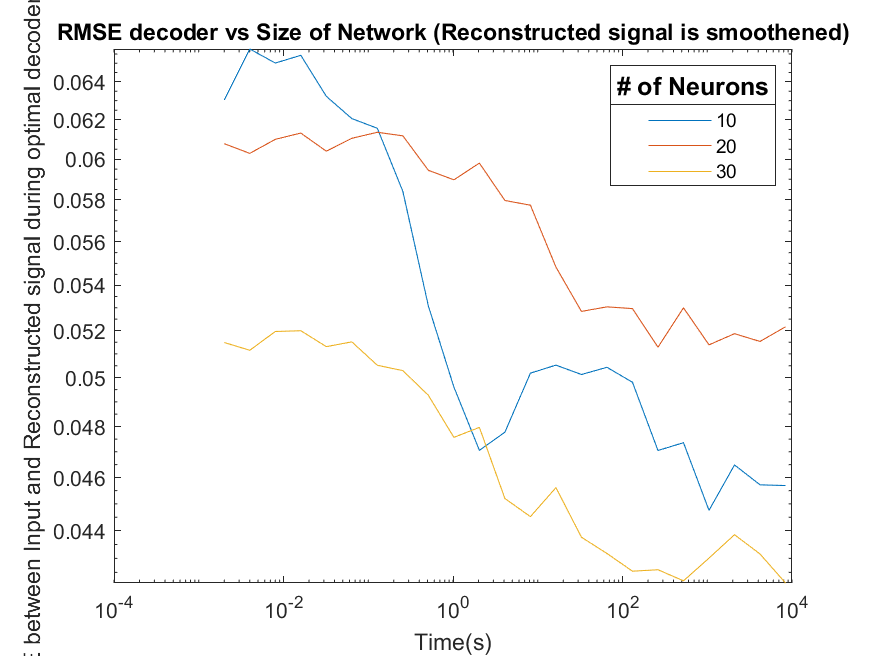
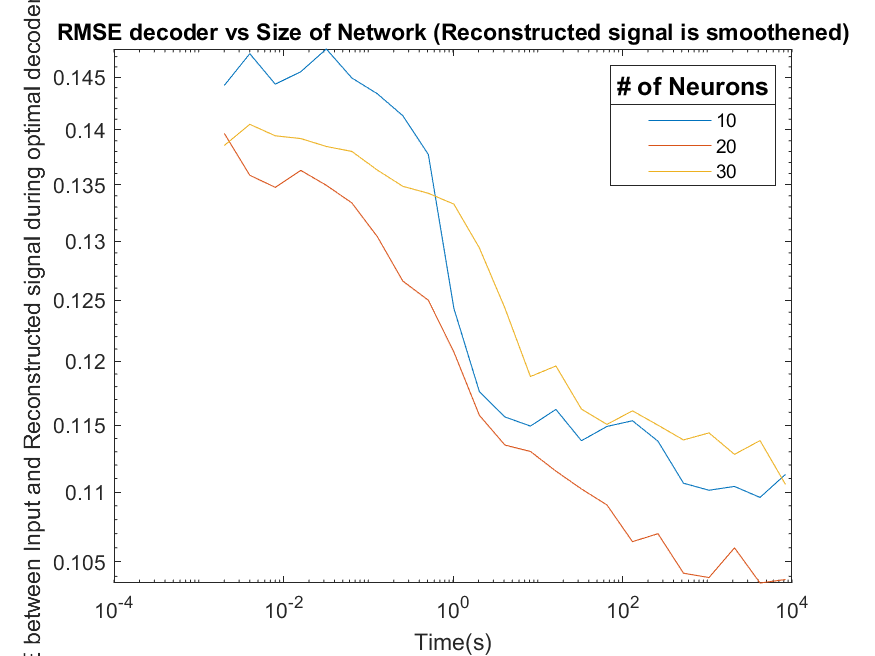
Original Dataset

diff --git a/optimalEncoding_matlab/original/Learning.m b/optimalEncoding_matlab/original/Learning.m
@@ -35,7 +35,7 @@ function [Fs,Cs,F,C,Decs, ErrorC, RMSE, MeanPrate]=Learning(dt,lambda,epsr,epsf,
 %%%%%%%%%%%%%%%%%%%%%%%%%%%%%%%%%%%%%%%%%%%%%%%%%%%%%%%%%%%%%%%%%%%%%%%%%%%%%%%
 
 
-%%
+%% Learning 
 %%%%%%%%%%%%%%%%%%%%%%%%%%%%%%%%%%%%%%%%%%%%%%%%%%%%%%%%%%%%%%%%%%%%%%%%%%%%%%%%%%
 %%%%%%%%%%%%%%%%%%%%%%   Learning the optinal connectivities  %%%%%%%%%%%%%%%%%%%%
 %%%%%%%%%%%%%%%%%%%%%%%%%%%%%%%%%%%%%%%%%%%%%%%%%%%%%%%%%%%%%%%%%%%%%%%%%%%%%%%%%%
@@ -112,9 +112,9 @@ end
 
 
 fprintf('Learning  completed\n')
-imagesc(spikeVector);
-hold off
-imagesc(spikeAnalog);
+%imagesc(spikeVector);
+%hold off
+%imagesc(spikeAnalog);
 %%
 %%%%%%%%%%%%%%%%%%%%%%%%%%%%%%%%%%%%%%%%%%%%%%%%%%%%%%%%%%%%%%%%%%%%%%%%%%%%%%%%%%
 %%%%%%%%%%%%%%%%%%%%%%   Computing Optimal Decoders  %%%%%%%%%%%%%%%%%%%%%%%%%%%%%
@@ -149,6 +149,8 @@ for t=2:TimeL
     
 end
 
+spikeOutputs = zeros(T,Nneuron,TimeL);
+spikeAnalog = zeros(T,Nneuron,TimeL);
 for i=1:T
     [rOL, O, ~] = runnet(dt, lambda, squeeze(Fs(i,:,:)) ,InputL, squeeze(Cs(i,:,:)),Nneuron,TimeL, Thresh); % running the network with the previously generated input for the i-th instanc eof the network
     spikeOutputs(i,:,:) = O;
@@ -164,7 +166,41 @@ for i = 1:T
     [RecAligned(i,:,:), InputAligned(i,:,:), RMSE(:,i)] = SmoothNormAlign(reconstruction, InputL, Nx, TimeL);
 end
 
+figure; 
+subplot(3,1,1);plot(InputL(1,:));hold on; plot(InputL(2,:));
+subplot(3,1,2);imagesc(O);
+subplot(3,1,3); plot(reconstruction(1,:)); hold on; plot(reconstruction(2,:));
+%% Determining optimal weights and optimal decoder, to be used for inference
+% Lowest RMSE = 0, highest RMSE = 1;
+NormalizedRMSE = (RMSE - min(RMSE))/(max(RMSE) - min(RMSE));
+TotalSpikes = sum(sum(spikeOutputs,3),2);
+NormalizedSpiking = (TotalSpikes - min(TotalSpikes))/(max(TotalSpikes)-min(TotalSpikes));
+OptimalCriteria = NormalizedRMSE + NormalizedSpiking';
+[m, OptimalIdx] = min(OptimalCriteria);
+Foptimal = Fs(OptimalIdx,:, :);
+Coptimal = Cs(OptimalIdx,:, :);
+%% Plotting Input vs Reconstructed signal from the decoder, from the most sparse point
+OptimalRecAligned = squeeze(RecAligned(OptimalIdx,:,:));
+OptimalInputAligned = squeeze(InputAligned(OptimalIdx,:,:));
+OptimalRMSE = RMSE(:,OptimalIdx);
 
+time = 2000*dt:dt:3000*dt;
+figure()
+plot(time, OptimalInputAligned(1,2000:3000));
+hold on
+plot(time, OptimalRecAligned(1,2000:3000));
+hold on
+plot(time, OptimalInputAligned(2,2000:3000));
+plot(time, OptimalRecAligned(2,2000:3000));
+lgd = legend('Input signal: Sin','Reconstructed signal: Sin', 'Input signal: Cos','Reconstructed signal: Cos');
+xlabel("Time(s)")
+ylabel("Amplitude");
+GraphTitle = "Signal reconstruction from sparse optimal linear decoder, # Neurons = " + num2str(Nneuron); 
+title(GraphTitle);
+annotation('textbox', [0.75, 0.1, 0.1, 0.1], 'String', "RMSE = " + OptimalRMSE);
+GraphName = "GaussianDist_InputSignalvsReconstruct_Decoder_" + num2str(Nneuron) + ".png";
+set(gcf, 'Position', get(0, 'Screensize'));
+saveas(gcf, GraphName);
 %%
 %%%%%%%%%%%%%%%%%%%%%%%%%%%%%%%%%%%%%%%%%%%%%%%%%%%%%%%%%%%%%%%%%%%%%%%%%%%%%%%%%
 %%%%%%%%%%%  Computing Decoding Error, rates through Learning %%%%%%%%%%%%%%%%%%%
@@ -189,11 +225,12 @@ MeanPrate=zeros(1,T);%array of the mean rates over learning
 Error=zeros(1,T);%array of the decoding error over learning
 MembraneVar=zeros(1,T);%mean membrane potential variance over learning
 xT=zeros(Nx,TimeT);%target ouput
+OTAll = zeros(T,Nneuron,TimeT); %All spikes by all instances of the network in time
 
 
 
 Trials=10; %number of trials
-
+OTAll = zeros(T,Nneuron,TimeT);
 for r=1:Trials %for each trial
     InputT=A*(mvnrnd(zeros(1,Nx),eye(Nx),TimeT))'; % we genrate a new input
     
@@ -207,7 +244,7 @@ for r=1:Trials %for each trial
     
     for i=1:T %for each instance of the network
         [rOT, OT, VT] = runnet(dt, lambda, squeeze(Fs(i,:,:)) ,InputT, squeeze(Cs(i,:,:)),Nneuron,TimeT, Thresh);%we run the network with current input InputL
-        
+        OTAll(i,:,:) = OT; 
         xestc=squeeze(Decs(i,:,:))*rOT; %we deocode the ouptut using the optinal decoders previously computed
         Error(1,i)=Error(1,i)+sum(var(xT-xestc,0,2))/(sum(var(xT,0,2))*Trials);%we comput the variance of the error normalized by the variance of the target
         MeanPrate(1,i)=MeanPrate(1,i)+sum(sum(OT))/(TimeT*dt*Nneuron*Trials);%we comput the average firing rate per neuron
@@ -215,8 +252,29 @@ for r=1:Trials %for each trial
     end
     
 end
+%% Plotting Spiking Activity during testing using Decoders sampled at different learning durations
+SpikesDec1 = squeeze(OTAll(1,:,:));
+SpikesDecLast = squeeze(OTAll(OptimalIdx,:,:));
 
+figure()
+subplot(1,2,1);
+%plotting the spikes after training for short time (i.e., first sample of decoder)
+imagesc(SpikesDec1);
+subplotTitle = " Before training, #spikes = " + num2str(sum(sum(SpikesDec1)));
+title(subplotTitle);
 
+%plotting the spikes at the last sampled decoder (i.e., after ~all learning
+%has been done)
+subplot(1,2,2);
+imagesc(SpikesDecLast);
+subplotTitle = " After training, #spikes = " + num2str(sum(sum(SpikesDecLast)));
+title(subplotTitle);
+
+GridTitle = "Spiking Activity comparison before and after training, #Neurons = " + num2str(Nneuron);
+sgtitle(GridTitle);
+SpikeActivityFileName = "SpikeActivity_N" + num2str(Nneuron) + ".png";
+set(gcf, 'Position', get(0, 'Screensize'));
+saveas(gcf, SpikeActivityFileName);
 %%
 %%%%%%%%%%%%%%%%%%%%%%%%%%%%%%%%%%%%%%%%%%%%%%%%%%%%%%%%%%%%%%%%%%%%%%%%%%%%%%%%%
 %%%%%%%%%%%  Plotting Decoding Error, rates through Learning  %%%%%%%%%%%%%%%%%%%
@@ -270,6 +328,9 @@ title('Evolution of the Variance of the Membrane Potential ')
 set(gca,'ticklength',[0.01 0.01]/ax(3))
 box off
 
+GraphFileName = "GaussianDist_Error_Rate_Var_N" + num2str(Nneuron) + ".png";
+set(gcf, 'Position', get(0, 'Screensize'));
+saveas(gcf, GraphFileName);
 
 
 %%%%%%%%%%%%%%%%%%%%%%%%%%%%%%%%%%%%%%%%%%%%%%%%%%%%%%%%%%%%%%%%%%%%%%%%%%%%%%%%%%
@@ -420,6 +481,10 @@ axis([-1, 1 -1 1]);
 xlabel('Optimal decoder')
 ylabel('F^T')
 axis square
+
+GraphFileName = "GaussianDist_Weights_decoder_N" + num2str(Nneuron) + ".png";
+set(gcf, 'Position', get(0, 'Screensize'));
+saveas(gcf, GraphFileName);
 
 end
 

diff --git a/optimalEncoding_matlab/original/SmoothNormAlign.m b/optimalEncoding_matlab/original/SmoothNormAlign.m
@@ -15,17 +15,17 @@ function [RecAligned, InputAligned, RMSE] = SmoothNormAlign(reconstruction, Inpu
     %needs the signal processing toolbox
     %Align each dimension on its own
      %For Smoothened input, the delay on both dimensions shall be the same
-     for i=i:size(InputLNorm,1)
-         [RecTemp(i,:), InputTemp(i,:),D] = alignsignals(RecNormalized(i,:), InputLNorm(i,:));
-     end
+     %for i=1:size(InputLNorm,1)
+     %    [RecTemp(i,:), InputTemp(i,:),D] = alignsignals(RecNormalized(i,:), InputLNorm(i,:));
+     %end
     
     %For Non-smoothened input, delay only a single dimension, then apply
     %the same delay to the second (other) dimension(s)
-%     [RecTemp(1,:), InputTemp(1,:),D] = alignsignals(RecNormalized(1,:), InputLNorm(1,:));
-%     for i= 2:size(InputLNorm,1)
-%         InputTemp(i,:) = [zeros(1,abs(D)) InputLNorm(i,:)]; 
-%         RecTemp(i,:) = RecNormalized(i,:);
-%     end
+     [RecTemp(1,:), InputTemp(1,:),D] = alignsignals(RecNormalized(1,:), InputLNorm(1,:));
+     for i= 2:size(InputLNorm,1)
+         InputTemp(i,:) = [zeros(1,abs(D)) InputLNorm(i,:)]; 
+         RecTemp(i,:) = RecNormalized(i,:);
+     end
     
     
     %%The Input shall be delayed by D samples, discard the first 5*D samples in

diff --git a/optimalEncoding_matlab/original/twoDWhite.m b/optimalEncoding_matlab/original/twoDWhite.m
@@ -32,6 +32,7 @@ for i = 1:length(Nneuron)
     TotalSpikesByNetwork(i,:) = Nneuron(i)*MeanPrate(i,:);
 end
 %% Plotting Total Spikes per network vs # of Neurons
+figure
 loglog((2.^(1:length(TotalSpikesByNetwork)))*dt,TotalSpikesByNetwork');
 lgd = legend('10', '20', '30');
 title(lgd,'# of Neurons','FontSize',12)
